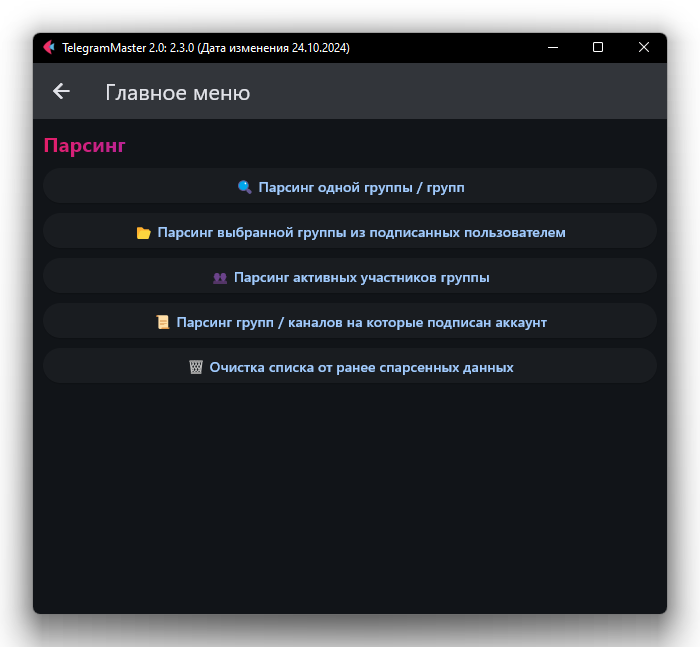
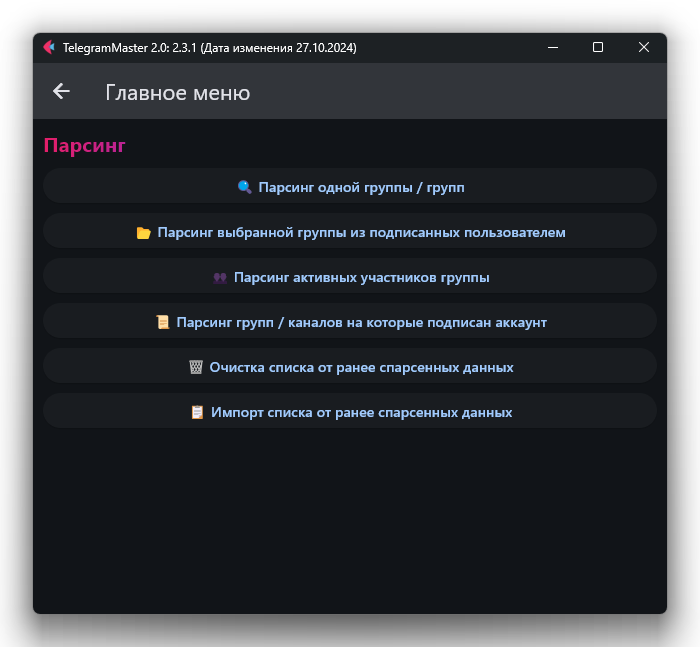
⬆ Рефакторинг документации. Рефакторинг документации. Частичный перенос графических наименований в отдельный файл localization.py. Добавлена функция "📋 Импорт списка от ранее спарсенных данных".

Changed region(s): [[0.03, 0.0309, 0.96, 0.1236], [0.27, 0.6182, 0.75, 0.6491], [0.3, 0.4019, 0.33, 0.4637]]

diff --git a/docs/templates/parsing.html b/docs/templates/parsing.html
@@ -75,6 +75,10 @@
             <a href="#parsing_selected_group">{{parse_account_subscribed_groups_channels}}</a><br>
             <!-- 🗑 Очистка списка от ранее спарсенных данных -->
             <a href="#clear_list">{{clear_previously_parsed_data_list}}</a><br>
+
+            <!-- 📋 Импорт списка от ранее спарсенных данных -->
+            <a href="#importing_a_list_of_parsed_data">{{importing_a_list_of_parsed_data}}</a><br>
+
         </div>
 
         <div
@@ -83,7 +87,7 @@
             <p style="color: #721c24; margin: 0; font-size: 16px;">
                 ⚠ {{program_name}} автоматически сравнивает полученные данные по идентификаторам (ID) и удаляет
                 дубликаты.<br>
-                Важно отметить, что <strong>TelegramMaster</strong> не имеет возможности парсить каналы.<br>
+                Важно отметить, что <strong>{{program_name}}</strong> не имеет возможности парсить каналы.<br>
             </p>
         </div>
 
@@ -205,7 +209,7 @@
             </p>
 
             2⃣ Подключить аккаунты к {{program_name}} <a href="{{ url_for('connect_accounts') }}">(см. Подключение
-            аккаунтов Telegram к TelegramMaster)</a> или скопировать session файл аккаунта в папку
+            аккаунтов Telegram к {{program_name}})</a> или скопировать session файл аккаунта в папку
             <code>{{program_name}}/user_settings/accounts/parsing</code><br>
             3⃣ Перейти в раздел «Парсинг»<br>
 
@@ -307,8 +311,46 @@
         </blockquote>
 
         <p>
-            После выполненных действий TelegramMaster очистит базу данных (файл
+            После выполненных действий {{program_name}} очистит базу данных (файл
             <code>{{program_name}}/user_settings/software_database.db</code> в таблицу members).<br>
+        </p>
+
+        <hr align="center"/>
+
+        <!-- 📋 Импорт списка от ранее спарсенных данных -->
+
+        <h2 id="importing_a_list_of_parsed_data" style="text-align: center;">{{importing_a_list_of_parsed_data}}</h2>
+
+        <p>
+            Для импорта списка ранее собранных данных (username), выполните следующие действия:<br>
+        </p>
+
+        <blockquote>
+            1⃣ Запустить {{program_name}} (см. <a href="{{ url_for('launch_telegrammaster') }}">Запуск
+            {{program_name}}</a>).<br>
+
+            <!-- Изображение с центровкой -->
+            <p style="text-align: center;">
+                <!-- Пример правильного пути к изображению -->
+                <img src="{{ url_for('static', filename='images/TelegramMaster_2.png') }}" alt="Telegram Master"
+                     width="40%">
+            </p>
+
+            2⃣ Перейти в раздел «<a href="{{ url_for('parsing') }}">🔍 Парсинг</a>»<br>
+
+            <!-- Изображение с центровкой -->
+            <p style="text-align: center;">
+                <!-- Пример правильного пути к изображению -->
+                <img src="{{ url_for('static', filename='images/parsing.png') }}" alt="Telegram Master" width="40%">
+            </p>
+
+            3⃣ Выбрать функцию «📋 Импорт списка от ранее спарсенных данных».<br>
+        </blockquote>
+
+        <p>
+            После выполнения этих действий {{program_name}} сохранит данные в файле
+            <code>{{program_name}}/user_settings/parsed_chat_participants.xlsx</code>. Эти данные будут взяты из таблицы members.
+            Обратите внимание, что файл <code>parsed_chat_participants.xlsx</code> будет перезаписан.
         </p>
 
         <hr align="center"/>

diff --git a/docs/templates/index.html b/docs/templates/index.html
@@ -102,7 +102,7 @@
 
         {{program_name}} предлагает широкий спектр возможностей, включая:<br>
         <blockquote>
-            <a href="{{ url_for('inviting') }}">Инвайтинг</a> (приглашение пользователей) 💌,<br>
+            <a href="{{ url_for('inviting_page') }}">Инвайтинг</a> (приглашение пользователей) 💌,<br>
             <a href="{{ url_for('parsing') }}">Парсинг</a> (сбор информации о пользователях и группах)
             🕵♂,<br>
             Работу с контактами 📇,<br>
@@ -168,12 +168,12 @@
         <!-- Основные функции TelegramMaster -->
         <h3>Основные функции {{ program_name }}:</h3>
         <ul>
-            <li><a href="{{ url_for('inviting') }}">🚀 Инвайтинг:</a></li>
+            <li><a href="{{ url_for('inviting_page') }}">🚀 Инвайтинг:</a></li>
 
             <ul>
-                <li><a href="{{ url_for('inviting') }}">🚀 Инвайтинг 1 раз в час</a></li>
-                <li><a href="{{ url_for('inviting') }}">🚀 Инвайтинг в определенное время</a></li>
-                <li><a href="{{ url_for('inviting') }}">🚀 Инвайтинг каждый день</a></li>
+                <li><a href="{{ url_for('inviting_page') }}">🚀 Инвайтинг 1 раз в час</a></li>
+                <li><a href="{{ url_for('inviting_page') }}">🚀 Инвайтинг в определенное время</a></li>
+                <li><a href="{{ url_for('inviting_page') }}">🚀 Инвайтинг каждый день</a></li>
             </ul>
 
             <li><a href="{{ url_for('parsing') }}">🔍 Парсинг:</a></li>

diff --git a/docs/templates/creating_groups.html b/docs/templates/creating_groups.html
@@ -87,8 +87,7 @@
 
             2⃣ Подключить аккаунты к {{program_name}} <a href="{{ url_for('connect_accounts') }}">(см. Подключение
             аккаунтов Telegram к {{program_name}})</a> или
-            скопировать session файл аккаунта в папку <code>{{ program_name
-            }}/user_settings/accounts/creating</code><br>
+            скопировать session файл аккаунта в папку <code>{{ program_name }}/user_settings/accounts/creating</code><br>
             3⃣ Запустить функцию "Создание групп (чатов)".<br>
         </blockquote>
 

diff --git a/docs/templates/menu.html b/docs/templates/menu.html
@@ -34,7 +34,7 @@
     </footer>
 
     <a href="{{ url_for('index') }}">🏠 Главное меню</a>
-    <a href="{{ url_for('inviting') }}">🚀 Инвайтинг</a>
+    <a href="{{ url_for('inviting_page') }}">🚀 Инвайтинг</a>
     <a href="{{ url_for('sending_messages') }}">📧 Рассылка сообщений</a>
     <a href="{{ url_for('parsing') }}">🔍 Парсинг</a>
     <a href="{{ url_for('working_with_reactions') }}">👍 Работа с реакциями</a>

diff --git a/main.py b/main.py
@@ -30,6 +30,7 @@ from system.menu_gui.menu_gui import (inviting_menu, working_with_contacts_menu,
                                       subscribe_and_unsubscribe_menu, account_verification_menu,
                                       account_connection_menu, connecting_accounts_by_number_menu,
                                       connecting_accounts_by_session_menu)
+from system.receiving_and_recording.receiving_and_recording import ReceivingAndRecording
 from system.setting.setting import SettingPage, get_unique_filename, reaction_gui
 from system.sqlite_working_tools.sqlite_working_tools import DatabaseHandler
 
@@ -405,6 +406,10 @@ def main(page: ft.Page):
 
         elif page.route == "/clearing_list_previously_saved_data":  # Очистка списка от ранее спарсенных данных
             await DatabaseHandler().cleaning_db("members")
+
+
+        elif page.route == "/importing_a_list_of_parsed_data":  # 📋 Импорт списка от ранее спарсенных данных
+            await ReceivingAndRecording().write_data_to_excel(file_name="user_settings/parsed_chat_participants.xlsx")
         # ______________________________________________________________________________________________________________
         elif page.route == "/working_with_contacts":  # Меню "Работа с контактами"
             await working_with_contacts_menu(page)

diff --git a/system/menu_gui/menu_gui.py b/system/menu_gui/menu_gui.py
@@ -5,7 +5,7 @@ from system.localization.localization import (parse_single_or_multiple_groups, p
                                               parse_active_group_members, parse_account_subscribed_groups_channels,
                                               clear_previously_parsed_data_list,
                                               inviting_every_day, invitation_at_a_certain_time,
-                                              invitation_1_time_per_hour, inviting)
+                                              invitation_1_time_per_hour, inviting, importing_a_list_of_parsed_data)
 
 
 async def settings_menu(page):
@@ -220,6 +220,12 @@ async def menu_parsing(page):
                      ft.ElevatedButton(width=line_width, height=height_button,
                                        text=clear_previously_parsed_data_list,
                                        on_click=lambda _: page.go("/clearing_list_previously_saved_data")),
+
+                     # 📋 Импорт списка от ранее спарсенных данных
+                     ft.ElevatedButton(width=line_width, height=height_button,
+                                       text=importing_a_list_of_parsed_data,
+                                       on_click=lambda _: page.go("/importing_a_list_of_parsed_data")),
+
                  ])]))
 
 

diff --git a/docs/app.py b/docs/app.py
@@ -11,7 +11,7 @@ from system.localization.localization import (parse_selected_user_subscribed_gro
                                               parse_active_group_members, clear_previously_parsed_data_list,
                                               parse_account_subscribed_groups_channels, inviting,
                                               invitation_1_time_per_hour, invitation_at_a_certain_time,
-                                              inviting_every_day)
+                                              inviting_every_day, importing_a_list_of_parsed_data)
 
 app = Quart(__name__, template_folder='templates')
 
@@ -75,7 +75,8 @@ async def parsing():
                                  parse_selected_user_subscribed_group=parse_selected_user_subscribed_group,
                                  parse_active_group_members=parse_active_group_members,
                                  parse_account_subscribed_groups_channels=parse_account_subscribed_groups_channels,
-                                 clear_previously_parsed_data_list=clear_previously_parsed_data_list)
+                                 clear_previously_parsed_data_list=clear_previously_parsed_data_list,
+                                 importing_a_list_of_parsed_data=importing_a_list_of_parsed_data)
 
 
 @app.route('/subscribe_unsubscribe')

diff --git a/system/receiving_and_recording/receiving_and_recording.py b/system/receiving_and_recording/receiving_and_recording.py
@@ -1,0 +1,34 @@
+import openpyxl
+
+from system.sqlite_working_tools.sqlite_working_tools import DatabaseHandler
+
+
+
+class ReceivingAndRecording:
+
+    def __init__(self):
+        self.db_handler = DatabaseHandler()
+
+    async def write_data_to_excel(self, file_name):
+        """
+        Запись данных в Excel файл.
+        :param file_name: Имя файла для сохранения данных
+        """
+        data = await self.db_handler.read_parsed_chat_participants_from_db()
+
+        # Создание новой рабочей книги
+        workbook = openpyxl.Workbook()
+        sheet = workbook.active
+        sheet.title = "Chat Participants"
+
+        # Заголовки столбцов
+        headers = ["username", "id", "access_hash", "first_name", "last_name", "user_phone", "online_at", "photos_id",
+                   "user_premium"]
+        sheet.append(headers)
+
+        # Запись данных
+        for row in data:
+            sheet.append(row)
+
+        # Сохранение файла
+        workbook.save(file_name)

diff --git a/system/sqlite_working_tools/sqlite_working_tools.py b/system/sqlite_working_tools/sqlite_working_tools.py
@@ -202,3 +202,13 @@ class DatabaseHandler:
                 # Удаляем пользователя без username
                 self.cursor.execute("""DELETE from members where username = ?""", (username_name,))
                 self.sqlite_connection.commit()
+
+    async def read_parsed_chat_participants_from_db(self):
+        """
+        Чтение данных из базы данных.
+        """
+        await self.connect()
+        self.cursor.execute("SELECT * FROM members")
+        data = self.cursor.fetchall()
+        self.close()
+        return data

diff --git a/TODO.md b/TODO.md
@@ -67,7 +67,7 @@
    выводит сообщение о том, что нужно подключить аккаунт.
 4. В меню проверка аккаунтов появилось "Проверка через спам бот".
 5. В меню проверка аккаунтов появилось "Проверка на валидность" (программа проверяет, рабочий аккаунт или нет)
-6. В меню проверка аккаунтов появилось "Переименование аккаунтов" (session файл мереименовавается в номер телефона
+6. В меню проверка аккаунтов появилось "Переименование аккаунтов" (session файл переименовывается в номер телефона
    аккаунта)
 7. В меню проверка аккаунтов появилось "Полная проверка" (TelegramMaster 2.0 производит полную проверку аккаунтов)
 
@@ -115,13 +115,13 @@
 4. Добавить отображение результатов проверки аккаунтов (например, "аккаунтов в бане — 5 штук", "невалидных аккаунтов — 5
    штук", "в папке инвайтинг валидных аккаунтов — 1 штука").
 5. Добавить авторизацию по QR-коду.
-6. Реализовать импорт списка из базы данных и загрузку списка в базу данных.
-7. Добавить восстановление файла config.
-8. Продумать настройки для каждой функции, чтобы упростить работу новичков в TelegramMaster 2.0.
-9. Добавить автоответчик для рассылки сообщений.
-10. Добавить функцию жалобы на группы или каналы.
-11. Добавить в программу выбор времени пользователем с помощью Flet, а не методом ввода данных.
-12. Перенесли пути к папкам в файл config_path.ini
+~~6. Реализовать импорт списка из базы данных и загрузку списка в базу данных.~~
+6. Добавить восстановление файла config.
+7. Продумать настройки для каждой функции, чтобы упростить работу новичков в TelegramMaster 2.0.
+8. Добавить автоответчик для рассылки сообщений.
+9. Добавить функцию жалобы на группы или каналы.
+10. Добавить в программу выбор времени пользователем с помощью Flet, а не методом ввода данных.
+11. Перенесли пути к папкам в файл config_path.ini
 
 🔄 Обновление TelegramMaster 2.0 🚀<br>
 Версия программы: _________<br>
